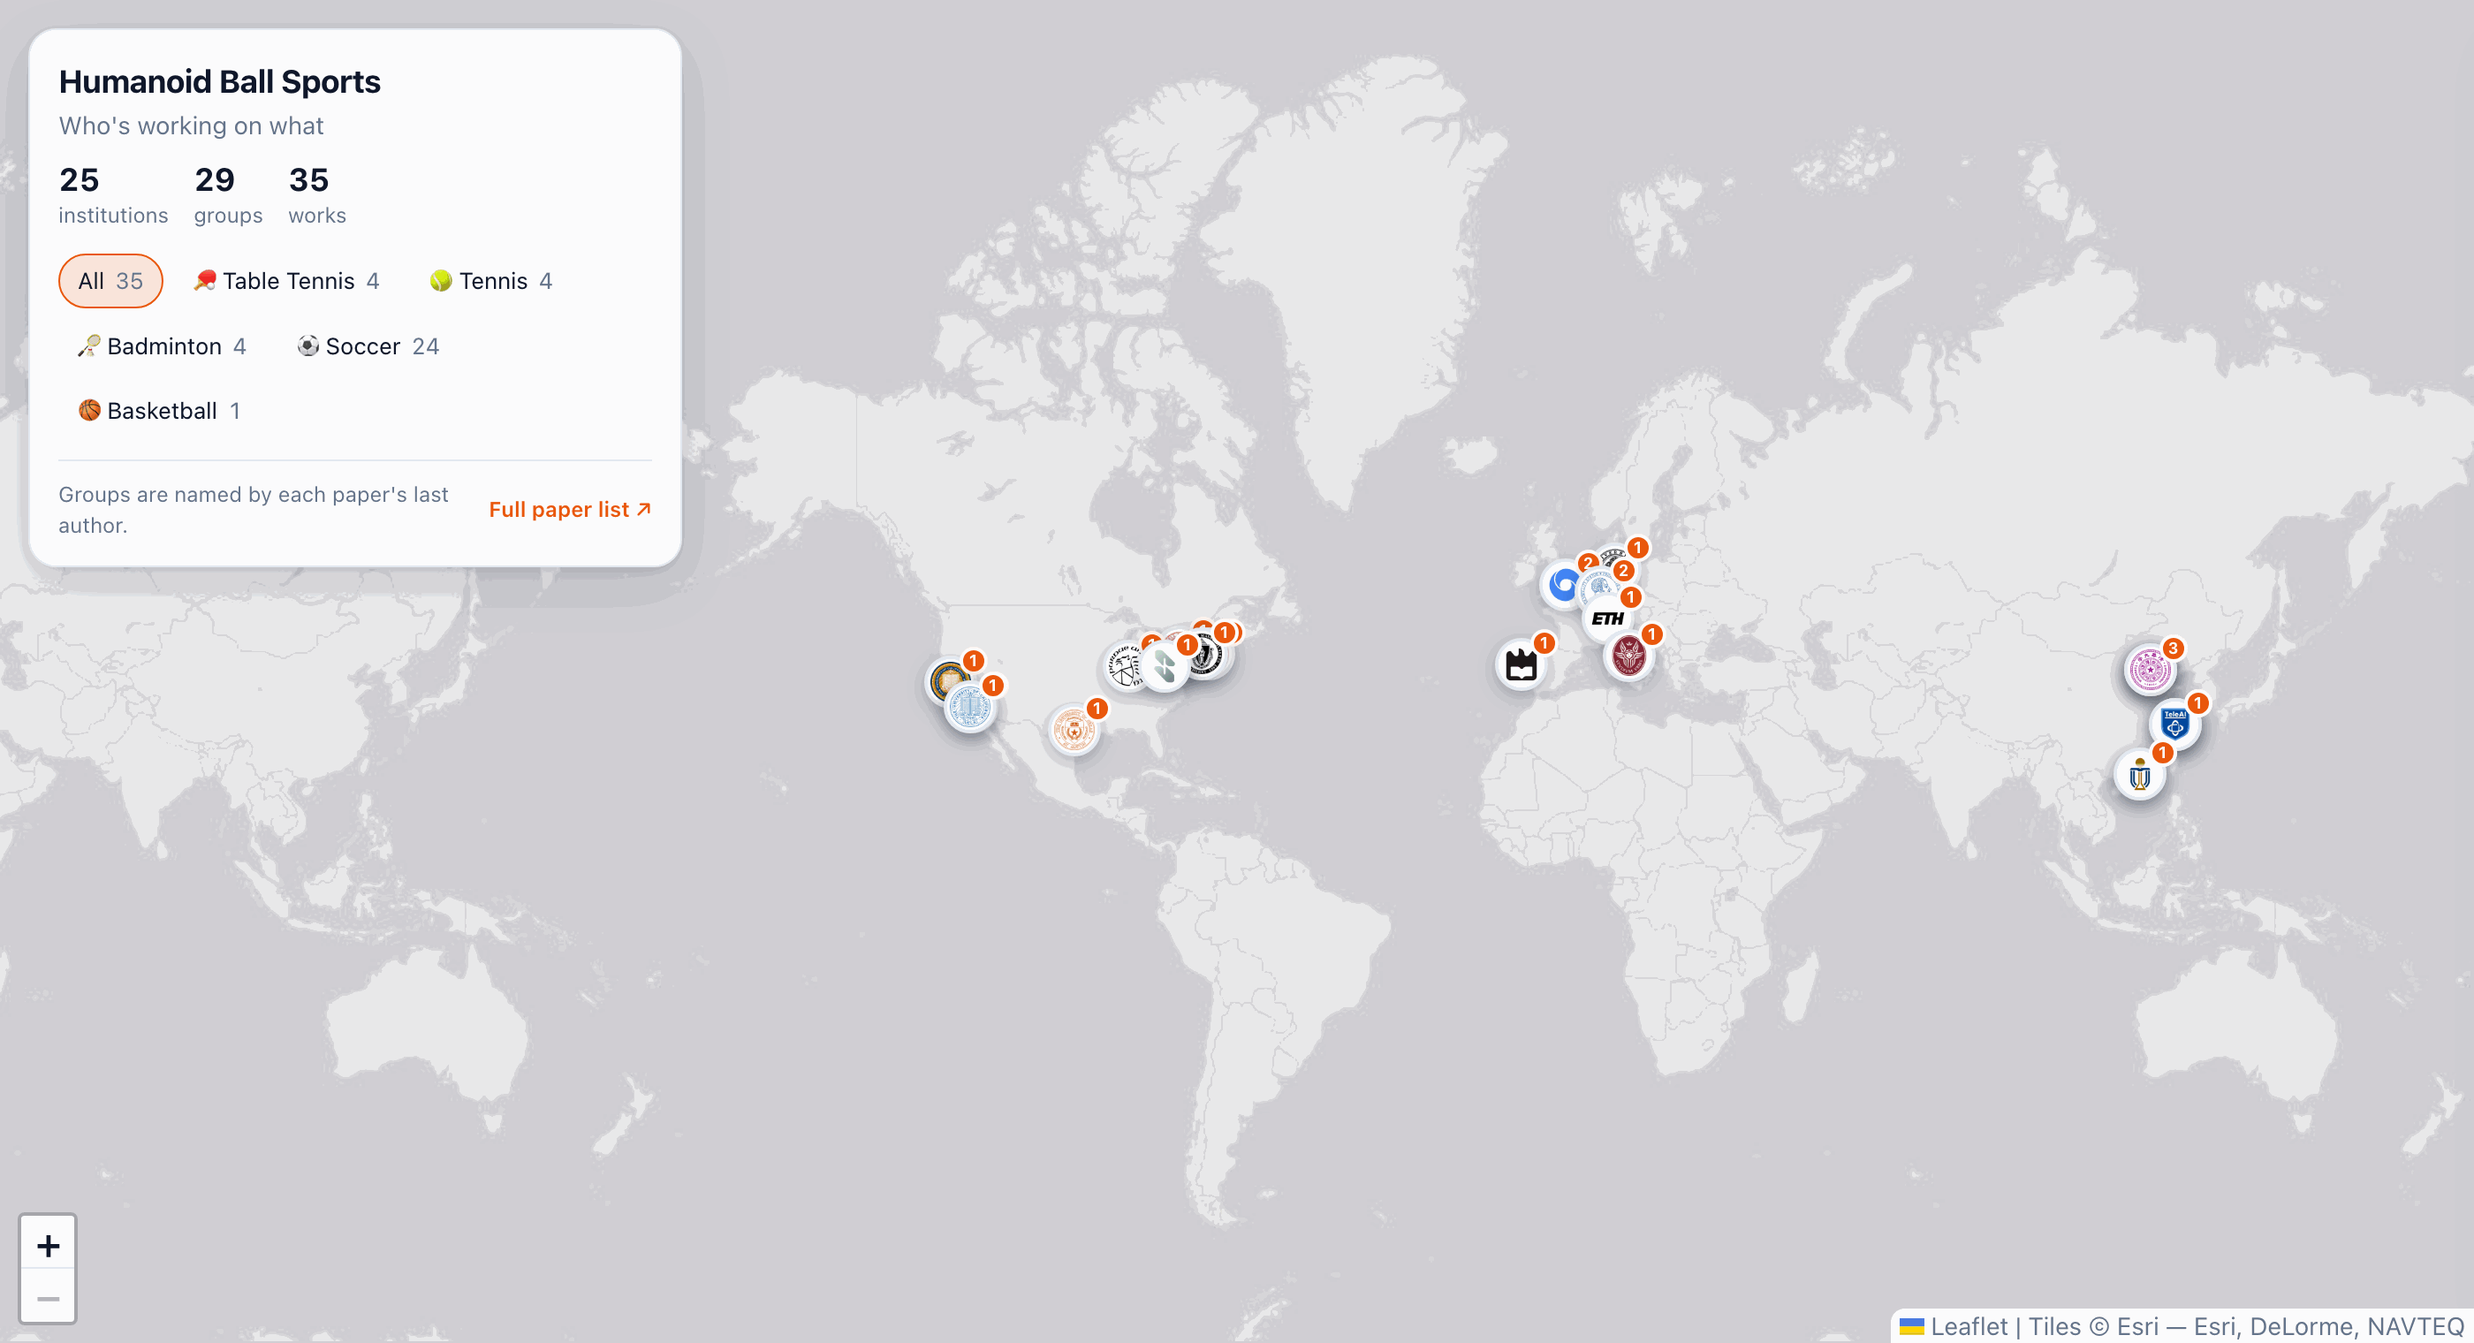
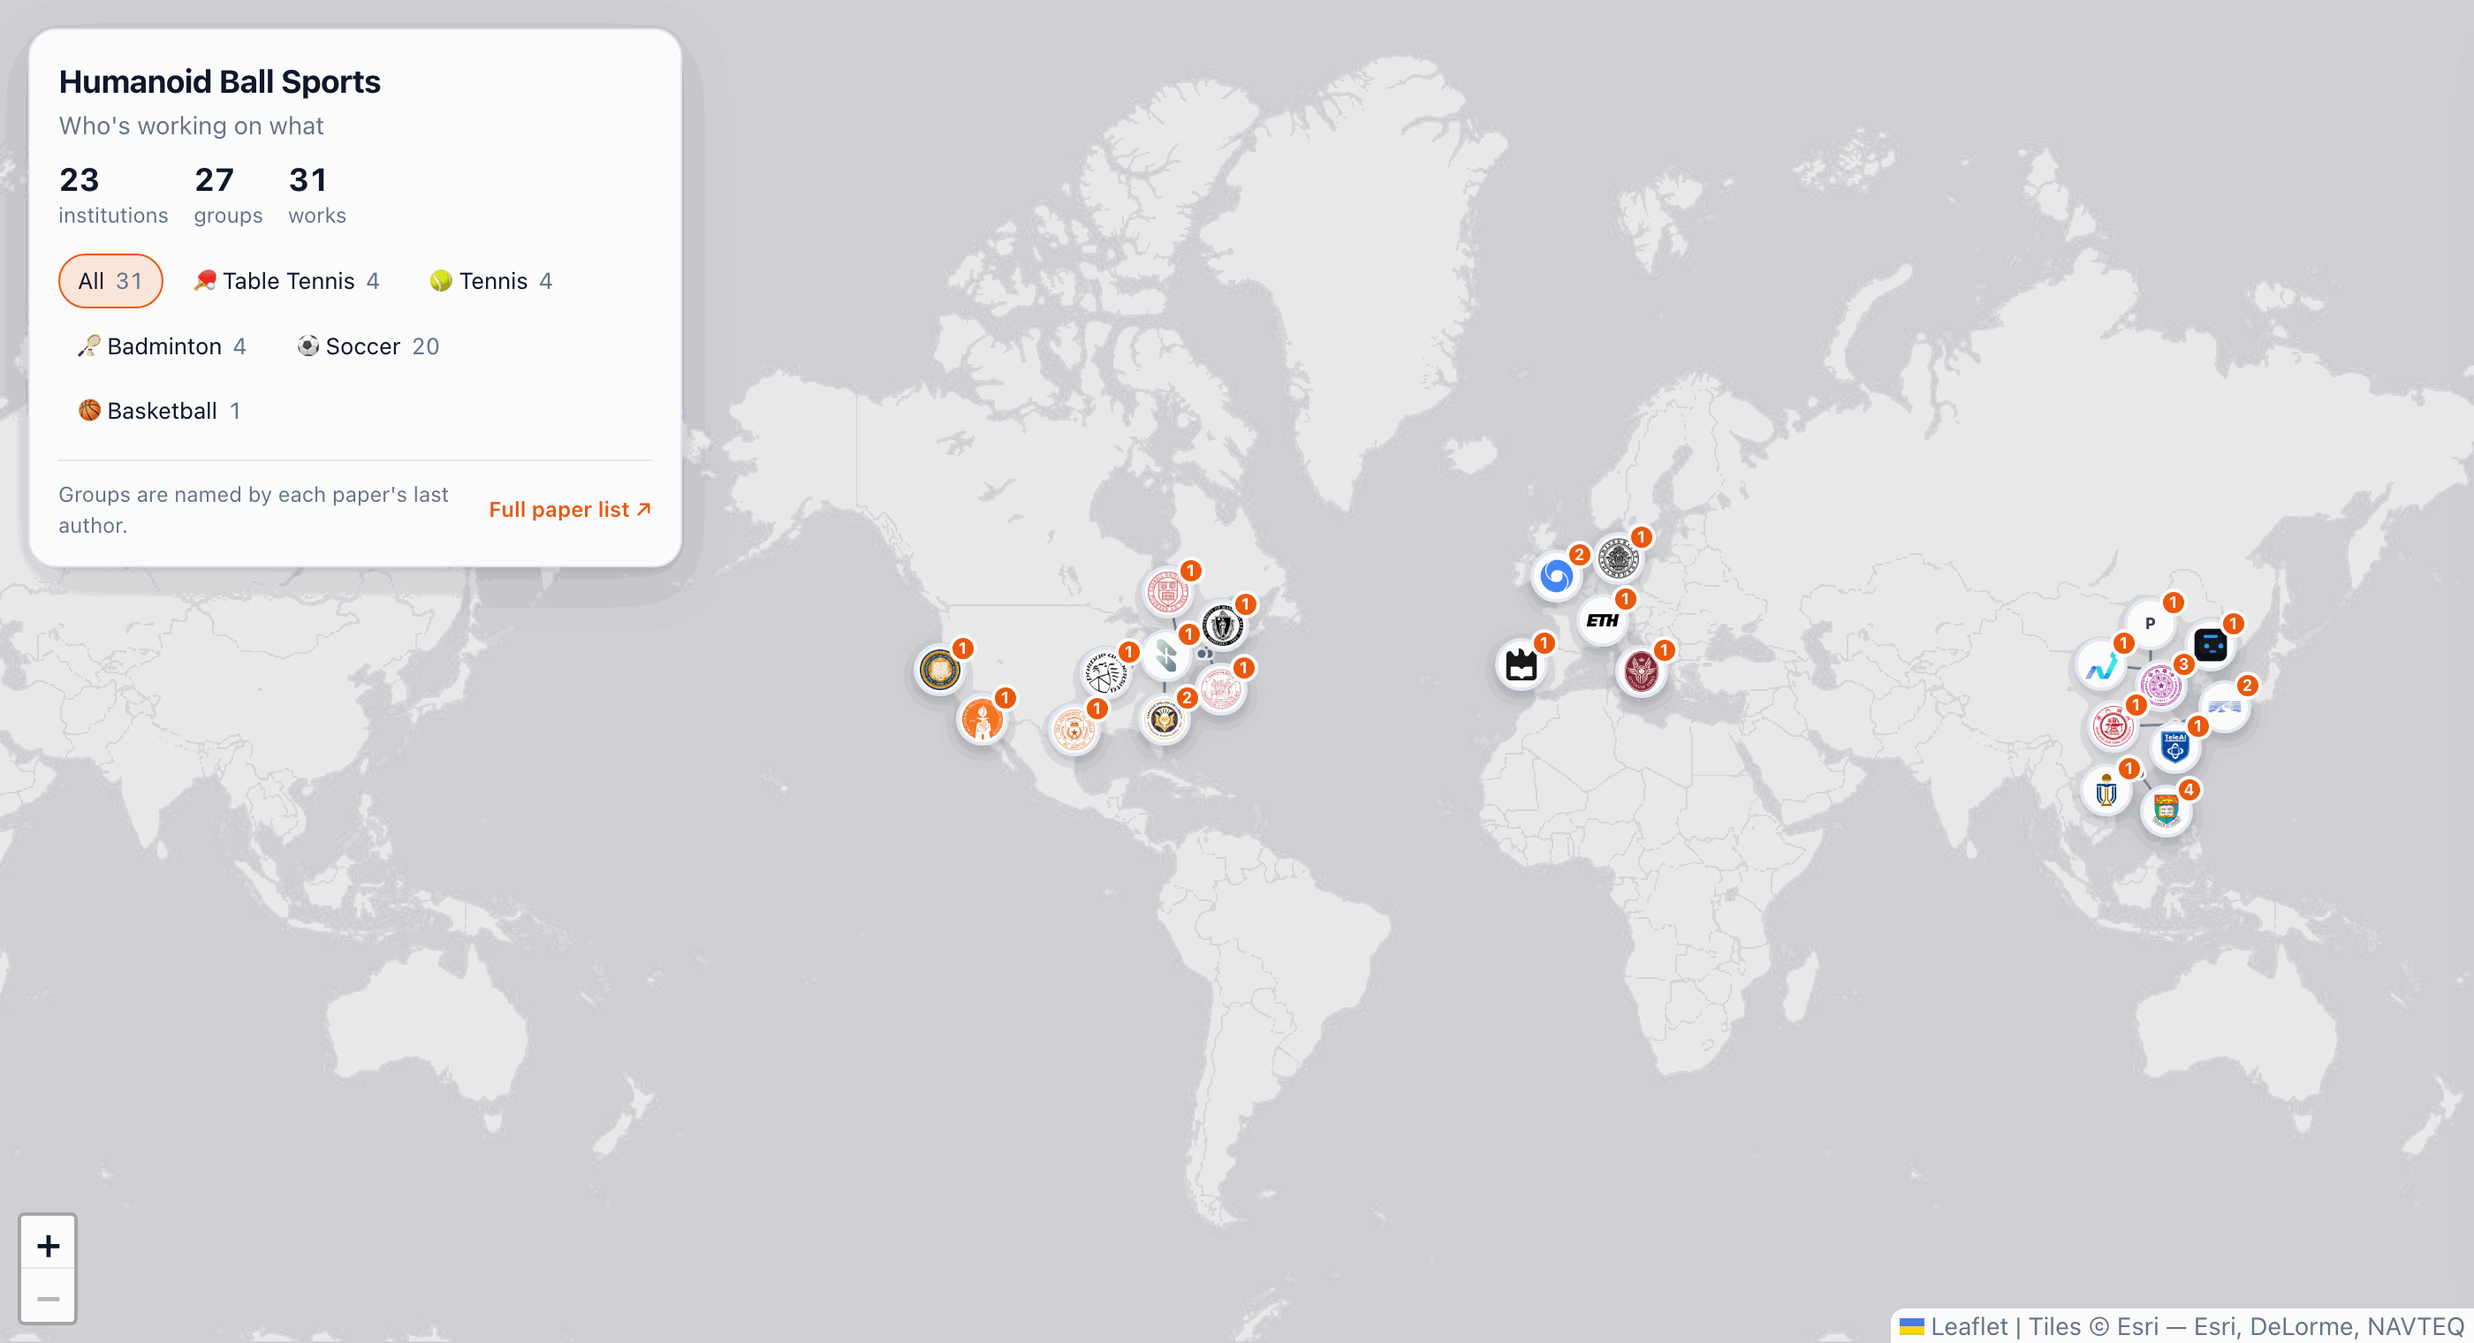
Nudge overlapping map markers apart; keep the list learning-based
Markers that would overlap at the current zoom (Beijing's Haidian
cluster, CMU and Skild AI, Caltech and UCLA, ...) are pushed apart by a
small collision relaxation with a weak spring back to their true
location, and a thin leader line marks where each one really is. Nothing
is merged, and zooming in brings markers back to their exact spots.

Drop four purely model-based soccer papers (2512.09431, 2401.05909,
2412.01480, 2510.01843) and note in CONTRIBUTING that such systems are
out of scope.

diff --git a/site/index.html b/site/index.html
@@ -112,6 +112,8 @@
     border-radius: 8px; box-shadow: var(--shadow); padding: 4px 8px; font-weight: 600;
   }
   .leaflet-tooltip.tip::before { display: none; }
+  .leader { stroke: var(--muted); stroke-width: 1.5; stroke-opacity: 0.8; }
+  .leader-dot { fill: var(--muted); fill-opacity: 1; stroke: var(--card); stroke-width: 1.5; }
 
   /* Detail panel */
   .panel {
@@ -265,10 +267,12 @@ function setTiles() {
 setTiles();
 dark.addEventListener("change", setTiles);
 
+const leaders = L.layerGroup().addTo(map);
 const layer = L.layerGroup().addTo(map);
 
 const markers = INSTITUTIONS.map(inst => {
-  const marker = L.marker([inst.lat, inst.lon], { inst, keyboard: true, riseOnHover: true });
+  const home = L.latLng(inst.lat, inst.lon);
+  const marker = L.marker(home, { inst, home, keyboard: true, riseOnHover: true });
   marker.bindTooltip(inst.name, { className: "tip", direction: "top", offset: [0, -4] });
   marker.on("click", () => openPanel(inst, marker));
   marker.on("add", () => labelMarker(marker));
@@ -285,8 +289,9 @@ const padding = () => wide()
   ? { paddingTopLeft: [410, 40], paddingBottomRight: [activeInst ? 470 : 40, 40] }
   : { paddingTopLeft: [20, 130], paddingBottomRight: [20, activeInst ? window.innerHeight * 0.62 + 60 : 20] };
 
-// Every institution keeps its own marker; markers shrink when zoomed out so
-// neighbours overlap less, and zooming in pulls them apart.
+// Every institution keeps its own marker. Markers shrink when zoomed out, and
+// markers that would still overlap are nudged apart (see layoutMarkers), with
+// a thin line back to each true location.
 const pinSize = () => (map.getZoom() <= 3 ? 30 : map.getZoom() <= 5 ? 36 : 44);
 
 function pinIcon(inst) {
@@ -309,15 +314,59 @@ function updateIcons() {
     labelMarker(m);
   }
 }
-map.on("zoomend", () => { if (pinSize() !== iconSize) updateIcons(); });
+map.on("zoomend", () => {
+  if (pinSize() !== iconSize) updateIcons();
+  layoutMarkers();
+});
+
+// Push overlapping markers apart while a weak spring pulls each one back to
+// its true location, so crowded cities spread out locally instead of merging.
+function layoutMarkers() {
+  const minDist = pinSize() + 6;
+  const visible = markers.filter(m => layer.hasLayer(m));
+  const home = visible.map(m => map.latLngToLayerPoint(m.options.home));
+  // A tiny golden-angle jitter gives markers at identical spots a direction to move in.
+  const pos = home.map((p, i) => ({ x: p.x + Math.cos(i * 2.4) * 0.5, y: p.y + Math.sin(i * 2.4) * 0.5 }));
+  const separate = () => {
+    let overlap = false;
+    for (let i = 0; i < pos.length; i++) {
+      for (let j = i + 1; j < pos.length; j++) {
+        const dx = pos[j].x - pos[i].x, dy = pos[j].y - pos[i].y;
+        const dist = Math.hypot(dx, dy) || 0.01;
+        if (dist >= minDist) continue;
+        const push = (minDist - dist) / 2 / dist;
+        pos[i].x -= dx * push; pos[i].y -= dy * push;
+        pos[j].x += dx * push; pos[j].y += dy * push;
+        overlap = true;
+      }
+    }
+    return overlap;
+  };
+  for (let iter = 0; iter < 150; iter++) {
+    if (!separate()) break;
+    pos.forEach((p, i) => { p.x += (home[i].x - p.x) * 0.05; p.y += (home[i].y - p.y) * 0.05; });
+  }
+  for (let iter = 0; iter < 50 && separate(); iter++);
+
+  leaders.clearLayers();
+  visible.forEach((m, i) => {
+    const shown = map.layerPointToLatLng(L.point(pos[i].x, pos[i].y));
+    m.setLatLng(shown);
+    if (Math.hypot(pos[i].x - home[i].x, pos[i].y - home[i].y) > 3) {
+      leaders.addLayer(L.polyline([m.options.home, shown], { className: "leader", interactive: false }));
+      leaders.addLayer(L.circleMarker(m.options.home, { radius: 3, className: "leader-dot", interactive: false }));
+    }
+  });
+}
 
 function refreshMarkers({ fit = false } = {}) {
   const visible = markers.filter(m => allWorks(m.options.inst).some(matches));
   updateIcons();
   layer.clearLayers();
   for (const m of visible) layer.addLayer(m);
+  layoutMarkers();
   if (fit && visible.length) {
-    map.flyToBounds(L.latLngBounds(visible.map(m => m.getLatLng())), { ...padding(), maxZoom: 5, duration: 0.8 });
+    map.flyToBounds(L.latLngBounds(visible.map(m => m.options.home)), { ...padding(), maxZoom: 5, duration: 0.8 });
   }
 }
 
@@ -423,15 +472,15 @@ document.addEventListener("keydown", e => { if (e.key === "Escape" && activeInst
 map.on("click", () => { if (activeInst) closePanel(); });
 
 // ---------------------------------------------------------------- init
+map.fitBounds(L.latLngBounds(markers.map(m => m.options.home)), padding());
 renderStats();
 renderChips();
 refreshMarkers();
-map.fitBounds(L.latLngBounds(markers.map(m => m.getLatLng())), padding());
 
 // Deep link: index.html#HKU opens that institution.
 const linked = markers.find(m => m.options.inst.name === decodeURIComponent(location.hash.slice(1)));
 if (linked) {
-  map.setView(linked.getLatLng(), 7);
+  map.setView(linked.options.home, 7);
   openPanel(linked.options.inst, linked);
 }
 </script>

diff --git a/site/data.js b/site/data.js
@@ -246,20 +246,6 @@ window.MAP_DATA = {
      "pi": "Peng Lu",
      "works": [
       {
-       "title": "Like Playing a Video Game: Spatial-Temporal Optimization of Foot Trajectories for Controlled Football Kicking in Bipedal Robots",
-       "short": "STOFT",
-       "date": "2025.10",
-       "sports": [
-        "soccer"
-       ],
-       "venue": "IROS 2025",
-       "announced": false,
-       "real": true,
-       "robot": "PEARL biped",
-       "paper": "https://arxiv.org/abs/2510.01843",
-       "project": "https://arclab-hku.github.io/STOFT/"
-      },
-      {
        "title": "Learning Human-Like Badminton Skills for Humanoid Robots",
        "short": "LHBS",
        "date": "2026.02",
@@ -695,33 +681,6 @@ window.MAP_DATA = {
    "logo": "logos/berkeley.png"
   },
   {
-   "name": "UCLA",
-   "lat": 34.0709,
-   "lon": -118.4469,
-   "groups": [
-    {
-     "name": "RoMeLa",
-     "pi": "Dennis W. Hong",
-     "works": [
-      {
-       "title": "A Hierarchical, Model-Based System for High-Performance Humanoid Soccer",
-       "short": "Model-Based Humanoid Soccer",
-       "date": "2025.12",
-       "sports": [
-        "soccer"
-       ],
-       "venue": "arXiv",
-       "announced": false,
-       "real": true,
-       "robot": "ARTEMIS",
-       "paper": "https://arxiv.org/abs/2512.09431"
-      }
-     ]
-    }
-   ],
-   "logo": "logos/ucla.png"
-  },
-  {
    "name": "UMass Amherst",
    "lat": 42.3893,
    "lon": -72.5284,
@@ -803,46 +762,6 @@ window.MAP_DATA = {
     }
    ],
    "logo": "logos/aveiro.png"
-  },
-  {
-   "name": "University of Bonn",
-   "lat": 50.7339,
-   "lon": 7.1024,
-   "groups": [
-    {
-     "name": "Autonomous Intelligent Systems",
-     "pi": "Sven Behnke",
-     "works": [
-      {
-       "title": "RoboCup 2023 Humanoid AdultSize Winner NimbRo: NimbRoNet3 Visual Perception and Responsive Gait with Waveform In-walk Kicks",
-       "short": "NimbRo (RoboCup 2023 winner)",
-       "date": "2024.01",
-       "sports": [
-        "soccer"
-       ],
-       "venue": "RoboCup 2023 Symposium",
-       "announced": false,
-       "real": true,
-       "robot": "NimbRo-OP2X",
-       "paper": "https://arxiv.org/abs/2401.05909"
-      },
-      {
-       "title": "Maximum Impulse Approach to Soccer Kicking for Humanoid Robots",
-       "short": "Maximum Impulse Kicking",
-       "date": "2024.12",
-       "sports": [
-        "soccer"
-       ],
-       "venue": "arXiv",
-       "announced": false,
-       "real": true,
-       "robot": "NimbRo-OP2X",
-       "paper": "https://arxiv.org/abs/2412.01480"
-      }
-     ]
-    }
-   ],
-   "logo": "logos/bonn.png"
   },
   {
    "name": "University of Hamburg",

diff --git a/README.md b/README.md
@@ -5,7 +5,7 @@ As robot learning leans more and more toward scaling, it can seem like there is 
 It collects research on humanoid robots playing **table tennis 🏓, tennis 🎾, badminton 🏸, soccer ⚽ and basketball 🏀**, plus a map of which groups work on which sport.
 
 <!-- gen:stats -->
-**36** works · **29** groups · **25** institutions
+**32** works · **27** groups · **23** institutions
 <!-- /gen -->
 
 Each entry lists when it first appeared, where it was published (📣 = public demo, no paper yet), which robot it uses, whether it was shown on real hardware (✅ real robot, 🖥 simulation only), and links to its project page and code.
@@ -69,16 +69,12 @@ Each entry lists when it first appeared, where it was published (📣 = public d
 |---|---|---|---|---|---|---|
 | 2023.04 | [Learning Agile Soccer Skills for a Bipedal Robot with Deep Reinforcement Learning](https://arxiv.org/abs/2304.13653) | Science Robotics 2024 | Robotis OP3 | ✅ | Nicolas Heess, Google DeepMind | [project](https://sites.google.com/view/op3-soccer) |
 | 2023.12 | [Designing a skilled soccer team for RoboCup: exploring skill-set-primitives through reinforcement learning](https://arxiv.org/abs/2312.14360) | Neural Computing and Applications 2025 | NAO (SimSpark) | 🖥 | Nuno Lau, University of Aveiro | [code](https://github.com/m-abr/FCPCodebase) |
-| 2024.01 | [RoboCup 2023 Humanoid AdultSize Winner NimbRo: NimbRoNet3 Visual Perception and Responsive Gait with Waveform In-walk Kicks](https://arxiv.org/abs/2401.05909) | RoboCup 2023 Symposium | NimbRo-OP2X | ✅ | Sven Behnke, University of Bonn | — |
 | 2024.05 | [Learning Robot Soccer from Egocentric Vision with Deep Reinforcement Learning](https://arxiv.org/abs/2405.02425) | CoRL 2024 | Robotis OP3 | ✅ | Nicolas Heess, Google DeepMind | [project](https://sites.google.com/view/vision-soccer) |
 | 2024.07 | [A Biomechanics-Inspired Approach to Soccer Kicking for Humanoid Robots](https://arxiv.org/abs/2407.14612) | arXiv | PresToe | 🖥 | Donghyun Kim, UMass Amherst | — |
-| 2024.12 | [Maximum Impulse Approach to Soccer Kicking for Humanoid Robots](https://arxiv.org/abs/2412.01480) | arXiv | NimbRo-OP2X | ✅ | Sven Behnke, University of Bonn | — |
 | 2025.04 | [SoccerDiffusion: Toward Learning End-to-End Humanoid Robot Soccer from Gameplay Recordings](https://arxiv.org/abs/2504.20808) | arXiv | Wolfgang-OP | ✅ | Jianwei Zhang, University of Hamburg | [project](https://bit-bots.github.io/SoccerDiffusion) · [code](https://github.com/bit-bots/SoccerDiffusion) |
 | 2025.05 | [Dribble Master: Learning Agile Humanoid Dribbling through Legged Locomotion](https://arxiv.org/abs/2505.12679) | ICRA 2026 | Booster T1 | ✅ | Qi Wu, Cornell University | [project](https://zhuoheng0910.github.io/dribble-master/) · [code](https://github.com/Zhuoheng0910/DribbleMaster) |
 | 2025.10 | [Humanoid Goalkeeper: Learning from Position Conditioned Task-Motion Constraints](https://arxiv.org/abs/2510.18002) | arXiv | Unitree G1 | ✅ | Jiangmiao Pang, Shanghai AI Lab | [project](https://humanoid-goalkeeper.github.io/Goalkeeper/) · [code](https://github.com/InternRobotics/Humanoid-Goalkeeper) |
-| 2025.10 | [Like Playing a Video Game: Spatial-Temporal Optimization of Foot Trajectories for Controlled Football Kicking in Bipedal Robots](https://arxiv.org/abs/2510.01843) | IROS 2025 | PEARL biped | ✅ | Peng Lu, HKU | [project](https://arclab-hku.github.io/STOFT/) |
 | 2025.11 | [Learning Vision-Driven Reactive Soccer Skills for Humanoid Robots](https://arxiv.org/abs/2511.03996) | Science Robotics 2026 | Booster T1 | ✅ | Mingguo Zhao, Tsinghua University | [project](https://humanoid-kick.github.io) · [code](https://zenodo.org/records/21620490) |
-| 2025.12 | [A Hierarchical, Model-Based System for High-Performance Humanoid Soccer](https://arxiv.org/abs/2512.09431) | arXiv | ARTEMIS | ✅ | Dennis W. Hong, UCLA | — |
 | 2025.12 | [Learning Agile Striker Skills for Humanoid Soccer Robots from Noisy Sensory Input](https://arxiv.org/abs/2512.06571) | ICRA 2026 | Booster T1 | ✅ | Peter Stone, UT Austin | [project](https://humanoidsoccer.github.io) · [code](https://github.com/Daffan/humanoid-soccer) |
 | 2026.02 | [HumanX: Toward Agile and Generalizable Humanoid Interaction Skills from Human Videos](https://arxiv.org/abs/2602.02473) | arXiv | Unitree G1 | ✅ | Ping Tan, HKUST | [project](https://wyhuai.github.io/human-x/) · code (soon) |
 | 2026.02 | [Learning Soccer Skills for Humanoid Robots: A Progressive Perception-Action Framework](https://arxiv.org/abs/2602.05310) | arXiv | Unitree G1 | ✅ | Xuelong Li, TeleAI | [project](https://soccer-humanoid.github.io/) · [code](https://github.com/TeleHuman/HumanoidSoccer) |

diff --git a/CONTRIBUTING.md b/CONTRIBUTING.md
@@ -6,7 +6,7 @@ PRs and issues are welcome. Suggest a paper, fix a broken link, add your lab to 
 
 - **In:** humanoid robots, real or simulated robot models (G1, T1, E1, OP3, NAO, …), playing **table tennis, tennis, badminton, soccer or basketball**, or practicing one of the sport's skills: striking, kicking, dribbling, shooting, goalkeeping, rallying.
 - **Only official sources:** the original paper, and the authors' own project page and repo. Research-group demos that don't have a paper yet count too, if the authors announced them themselves.
-- **Out:** third-party reimplementations and "inspired by" projects; company promo demos with no paper or code; non-humanoid robots (arms, quadrupeds); physics-based character animation; generic locomotion or manipulation papers where the sport is only one example task; benchmarks, competitions and surveys.
+- **Out:** purely model-based systems with no learning component; third-party reimplementations and "inspired by" projects; company promo demos with no paper or code; non-humanoid robots (arms, quadrupeds); physics-based character animation; generic locomotion or manipulation papers where the sport is only one example task; benchmarks, competitions and surveys.
 
 ## How the list is built
 
